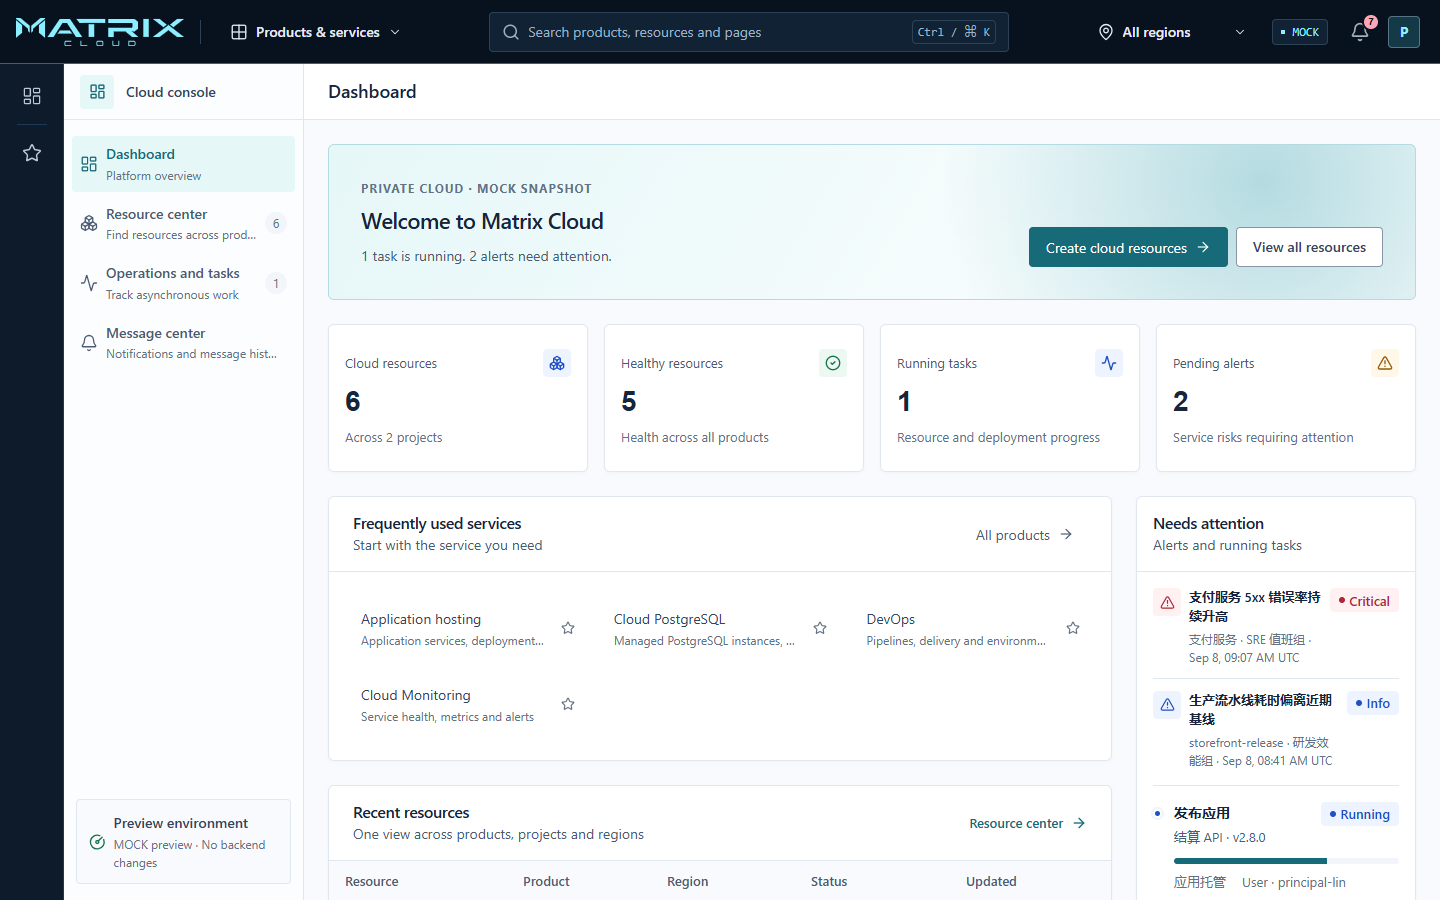
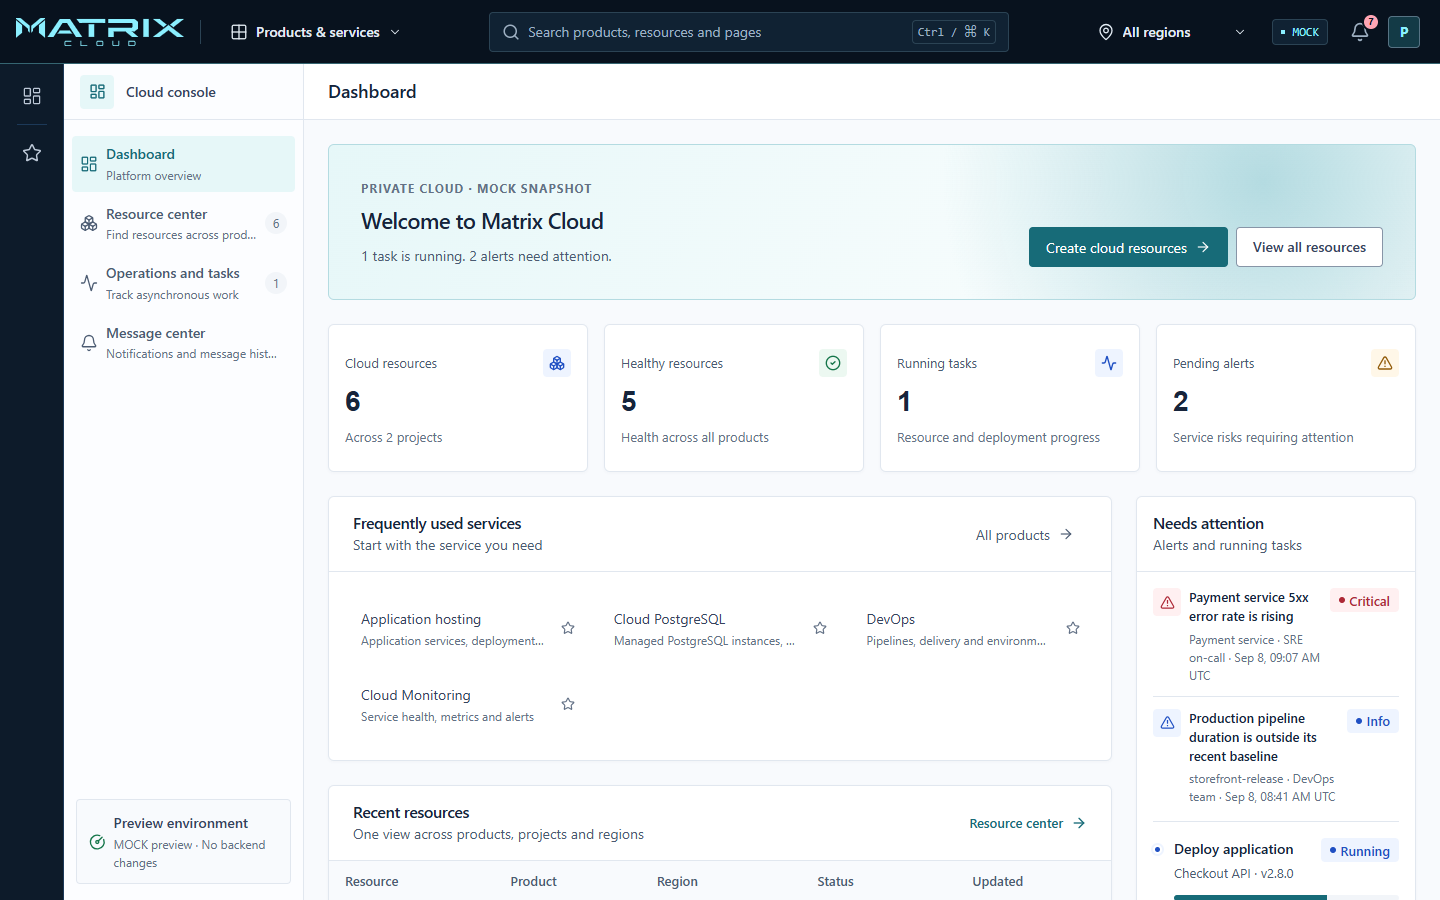
fix(ui): localize preview experience data

diff --git a/app/ui/paas/_frontend/src/features/control-plane/repositories/previewExperienceSnapshot.ts b/app/ui/paas/_frontend/src/features/control-plane/repositories/previewExperienceSnapshot.ts
@@ -202,3 +202,59 @@ export const previewExperienceSnapshot: ExperienceSnapshot = {
     ]
   }
 };
+
+const englishPreviewText = new Map<string, string>([
+  ["Xiak 科技", "Xiak Technology"],
+  ["全部项目", "All projects"],
+  ["电商中台 · 生产", "Commerce platform · Production"],
+  ["平台研发 · 测试", "Platform engineering · Test"],
+  ["全部区域", "All regions"],
+  ["上海私有云 A 区", "Shanghai private cloud · Zone A"],
+  ["上海私有云 B 区", "Shanghai private cloud · Zone B"],
+  ["订单主库", "Orders primary database"],
+  ["托管数据库", "Managed databases"],
+  ["结算 API", "Checkout API"],
+  ["应用托管", "Application hosting"],
+  ["研发效能", "DevOps"],
+  ["全局", "Global"],
+  ["支付服务", "Payment service"],
+  ["可观测平台", "Observability"],
+  ["云基础平台", "Cloud foundation"],
+  ["Matrix 开发库", "Matrix development database"],
+  ["v2.9.0 · 待发布", "v2.9.0 · Pending release"],
+  ["v2.8.0 · 当前", "v2.8.0 · Current"],
+  ["发布应用", "Deploy application"],
+  ["结算 API · v2.8.0", "Checkout API · v2.8.0"],
+  ["运行流水线", "Run pipeline"],
+  ["扩容服务配额", "Scale service quota"],
+  ["订单主库 · 生产型", "Orders primary database · Production"],
+  ["部署基础设施", "Deploy infrastructure"],
+  ["生产", "Production"],
+  ["测试", "Test"],
+  ["电商中台", "Commerce platform"],
+  ["支付服务 5xx 错误率持续升高", "Payment service 5xx error rate is rising"],
+  ["SRE 值班组", "SRE on-call"],
+  ["计算节点磁盘使用率超过 80%", "Compute node disk utilization exceeds 80%"],
+  ["平台运维组", "Platform operations"],
+  ["生产流水线耗时偏离近期基线", "Production pipeline duration is outside its recent baseline"],
+  ["研发效能组", "DevOps team"],
+  ["上海私有云 B 区计划维护通知", "Scheduled maintenance for Shanghai private cloud · Zone B"],
+  ["MOCK 通知：计划于 2026-09-10 02:00–03:00 UTC 进行基础设施维护。请提前检查关键工作负载的冗余配置；此样例不会触发实际维护。", "MOCK notice: infrastructure maintenance is scheduled for Sep 10, 2026, 02:00–03:00 UTC. Review redundancy for critical workloads in advance; this preview never schedules real maintenance."],
+  ["Matrix Cloud 体验环境已就绪", "Matrix Cloud preview environment is ready"],
+  ["欢迎体验统一云控制台。当前服务、告警和任务均为 MOCK 数据，不会写入真实平台。消息已读状态只在当前体验会话保留。", "Welcome to the unified cloud console. Services, alerts and tasks are MOCK data and never write to a real platform. Read state remains in this preview session only."]
+]);
+
+function translatePreviewValue(value: unknown): unknown {
+  if (typeof value === "string") return englishPreviewText.get(value) ?? value;
+  if (Array.isArray(value)) return value.map(translatePreviewValue);
+  if (value && typeof value === "object") {
+    return Object.fromEntries(Object.entries(value).map(([key, item]) => [key, translatePreviewValue(item)]));
+  }
+  return value;
+}
+
+const englishPreviewExperienceSnapshot = translatePreviewValue(previewExperienceSnapshot) as ExperienceSnapshot;
+
+export function previewExperienceSnapshotForLocale(locale: "zh-CN" | "en"): ExperienceSnapshot {
+  return locale === "en" ? englishPreviewExperienceSnapshot : previewExperienceSnapshot;
+}

diff --git a/app/ui/paas/_frontend/src/features/auth/repositories/previewIamRepository.ts b/app/ui/paas/_frontend/src/features/auth/repositories/previewIamRepository.ts
@@ -201,7 +201,7 @@ const previewAuthorizationProfiles: AuthorizationProfileEntry[] = [
 
 let account: Account = {
   id: "org-xiak",
-  displayName: "Xiak 科技",
+  displayName: "Xiak Technology",
   status: "ACTIVE",
   rootIdentity: { principalId: "principal-admin", loginName: "admin" },
   loginAlias: "xiak-cloud",
@@ -210,14 +210,14 @@ let account: Account = {
 
 let users: User[] = [
   {
-    id: "principal-lin", accountId: "org-xiak", loginName: "lin", displayName: "林工程师", status: "ACTIVE", mustChangePassword: false, resourceVersion: 3
+    id: "principal-lin", accountId: "org-xiak", loginName: "lin", displayName: "Platform Engineer", status: "ACTIVE", mustChangePassword: false, resourceVersion: 3
   },
   {
-    id: "principal-chen", accountId: "org-xiak", loginName: "chen", displayName: "陈审计员", status: "ACTIVE", mustChangePassword: false, resourceVersion: 2
+    id: "principal-chen", accountId: "org-xiak", loginName: "chen", displayName: "Audit Reviewer", status: "ACTIVE", mustChangePassword: false, resourceVersion: 2
   },
   ...[
-    { loginName: "qiao", displayName: "乔发布工程师" },
-    { loginName: "wu", displayName: "吴新同事" }
+    { loginName: "qiao", displayName: "Release Engineer" },
+    { loginName: "wu", displayName: "New Teammate" }
   ].map(({ loginName, displayName }) => ({
     id: `principal-${loginName}`, accountId: "org-xiak", loginName, displayName, status: "ACTIVE" as const, mustChangePassword: false, resourceVersion: 1
   }))
@@ -227,7 +227,7 @@ let accounts: Account[] = [
   account,
   {
     id: "org-sandbox",
-    displayName: "体验沙箱",
+    displayName: "Preview Sandbox",
     status: "ACTIVE",
     rootIdentity: { principalId: "principal-sandbox-admin", loginName: "sandbox-admin" },
     loginAlias: "sandbox",
@@ -659,7 +659,7 @@ function rootUser(): User {
     id: account.rootIdentity.principalId,
     accountId: account.id,
     loginName: account.rootIdentity.loginName,
-    displayName: "平台管理员",
+    displayName: "Platform Administrator",
     status: "ACTIVE",
     mustChangePassword: false,
     resourceVersion: 5

diff --git a/app/ui/paas/_frontend/src/features/control-plane/routes/ConsoleRouteLayout.tsx b/app/ui/paas/_frontend/src/features/control-plane/routes/ConsoleRouteLayout.tsx
@@ -3,20 +3,22 @@
 import type { ReactNode } from "react";
 import { usePathname } from "next/navigation";
 import { previewAccountRepository } from "@/features/auth/repositories/previewIamRepository";
+import { useLocalePreference } from "@/i18n/LocaleProvider";
 import { uxPreviewEnabled } from "@/infrastructure/runtime/uxPreviewMode";
 import { ConsoleShellRenderer } from "../renderers/ConsoleShellRenderer";
 import { previewControlPlaneRepository } from "../repositories/previewControlPlaneRepository";
-import { previewExperienceSnapshot } from "../repositories/previewExperienceSnapshot";
+import { previewExperienceSnapshotForLocale } from "../repositories/previewExperienceSnapshot";
 import { parseControlPlanePathname } from "./parseControlPlaneRoute";
 
 export function ConsoleRouteLayout({ children }: { children: ReactNode }) {
   const pathname = usePathname();
+  const { locale } = useLocalePreference();
 
   return (
     <>
       <ConsoleShellRenderer
         accountRepository={uxPreviewEnabled ? previewAccountRepository : undefined}
-        experience={uxPreviewEnabled ? previewExperienceSnapshot : undefined}
+        experience={uxPreviewEnabled ? previewExperienceSnapshotForLocale(locale) : undefined}
         repository={uxPreviewEnabled ? previewControlPlaneRepository : undefined}
         selection={parseControlPlanePathname(pathname)}
       />

diff --git a/app/ui/paas/_frontend/src/features/control-plane/routes/ConsoleRouteLayout.test.tsx b/app/ui/paas/_frontend/src/features/control-plane/routes/ConsoleRouteLayout.test.tsx
@@ -1,5 +1,6 @@
 import { cleanup, render, screen } from "@testing-library/react";
 import { afterEach, describe, expect, it, vi } from "vitest";
+import { LocaleProvider } from "@/i18n/LocaleProvider";
 import { ConsoleRouteLayout } from "./ConsoleRouteLayout";
 
 const route = vi.hoisted(() => ({ pathname: "/console/" }));
@@ -16,13 +17,16 @@ vi.mock("../renderers/ConsoleShellRenderer", () => ({
 
 afterEach(() => {
   cleanup();
+  localStorage.clear();
   route.pathname = "/console/";
 });
 
 describe("ConsoleRouteLayout", () => {
   it("keeps one console shell while the child route changes its scene", () => {
     const view = render(
-      <ConsoleRouteLayout><span>overview route</span></ConsoleRouteLayout>
+      <LocaleProvider>
+        <ConsoleRouteLayout><span>overview route</span></ConsoleRouteLayout>
+      </LocaleProvider>
     );
     const shell = screen.getByTestId("section");
     expect(screen.getByTestId("section").textContent).toBe("overview");
@@ -30,7 +34,9 @@ describe("ConsoleRouteLayout", () => {
 
     route.pathname = "/console/quotas/";
     view.rerender(
-      <ConsoleRouteLayout><span>quota route</span></ConsoleRouteLayout>
+      <LocaleProvider>
+        <ConsoleRouteLayout><span>quota route</span></ConsoleRouteLayout>
+      </LocaleProvider>
     );
 
     expect(screen.getByTestId("section")).toBe(shell);

diff --git a/app/ui/paas/_frontend/src/features/control-plane/repositories/previewExperienceSnapshot.test.ts b/app/ui/paas/_frontend/src/features/control-plane/repositories/previewExperienceSnapshot.test.ts
@@ -1,0 +1,18 @@
+import { describe, expect, it } from "vitest";
+import { previewExperienceSnapshot, previewExperienceSnapshotForLocale } from "./previewExperienceSnapshot";
+
+describe("previewExperienceSnapshotForLocale", () => {
+  it("keeps the source preview snapshot for Simplified Chinese", () => {
+    expect(previewExperienceSnapshotForLocale("zh-CN")).toBe(previewExperienceSnapshot);
+  });
+
+  it("provides English preview data without changing resource identity", () => {
+    const english = previewExperienceSnapshotForLocale("en");
+
+    expect(JSON.stringify(english)).not.toMatch(/[\u3400-\u9fff]/u);
+    expect(english.resources.map(({ id, href }) => ({ id, href }))).toEqual(
+      previewExperienceSnapshot.resources.map(({ id, href }) => ({ id, href }))
+    );
+    expect(english.organization).toEqual({ id: "org-xiak", name: "Xiak Technology" });
+  });
+});
